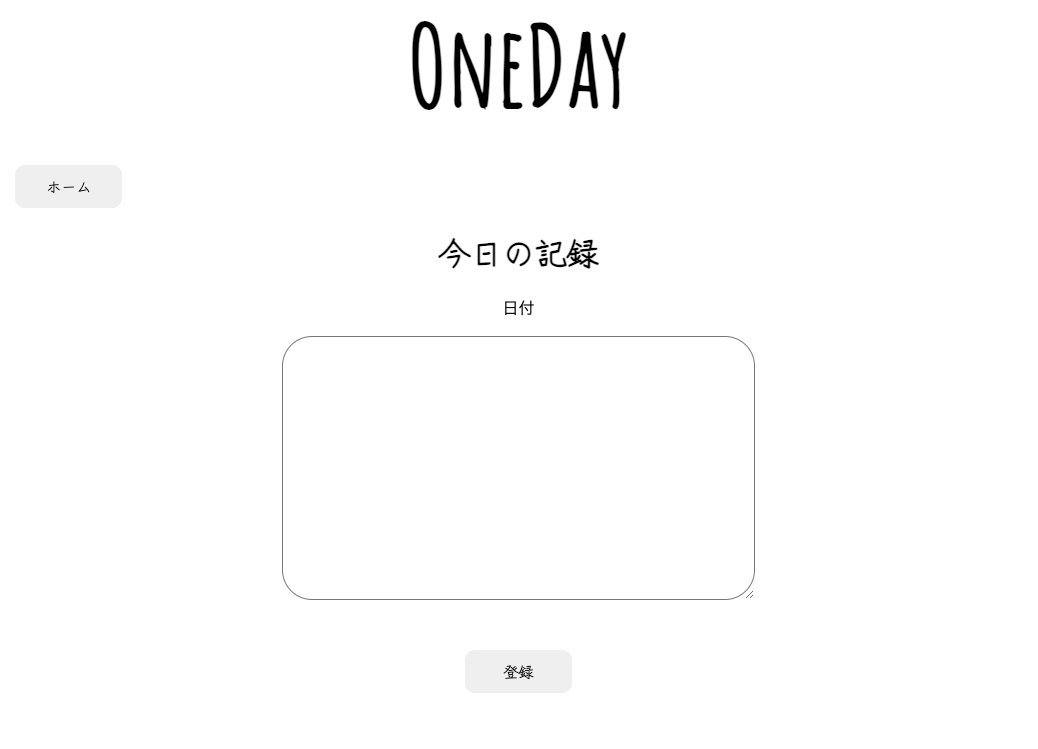
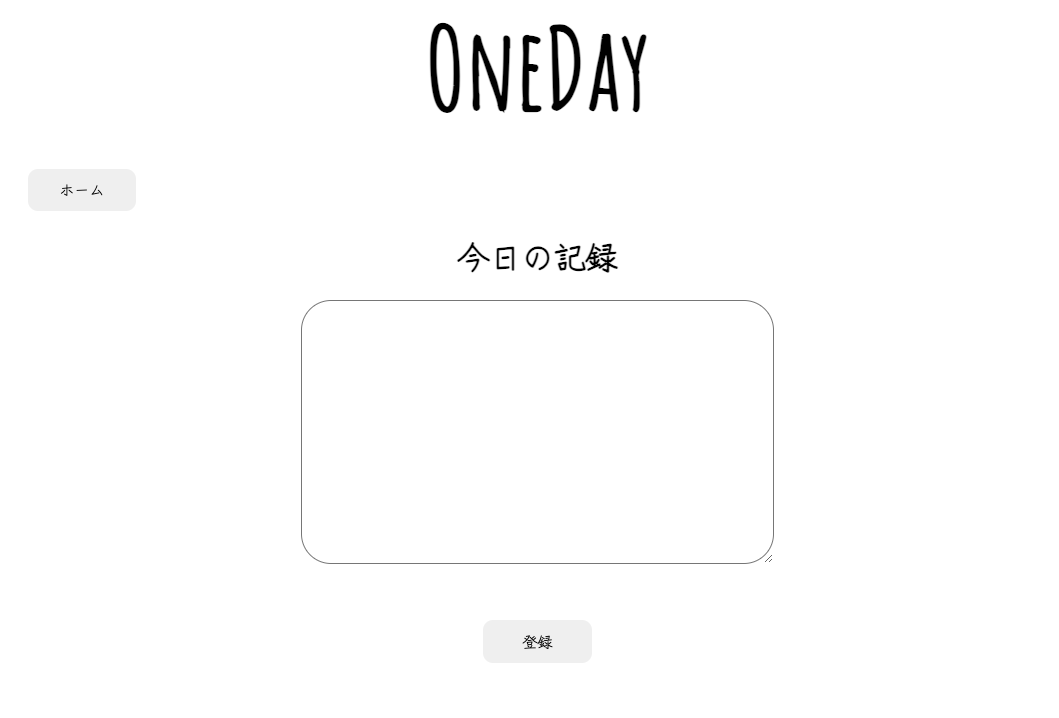
readme img

diff --git a/diary/diary.php b/diary/diary.php
@@ -53,7 +53,6 @@ if ($_SERVER['REQUEST_METHOD']==='POST'){
         <h1>今日の記録</h1>
             <div id="textarea">
                 <form action="" method="post">
-                    <p>日付</p>
                     <textarea id="write" cols="50" rows="9" name="text"><?php echo h($form['text']); ?></textarea>
                     <?php if(isset($error['text']) && $error['text']==='blank'):?>
                     <p class="memo">一言でもいいので本日の記録をしてみてください！</p>
